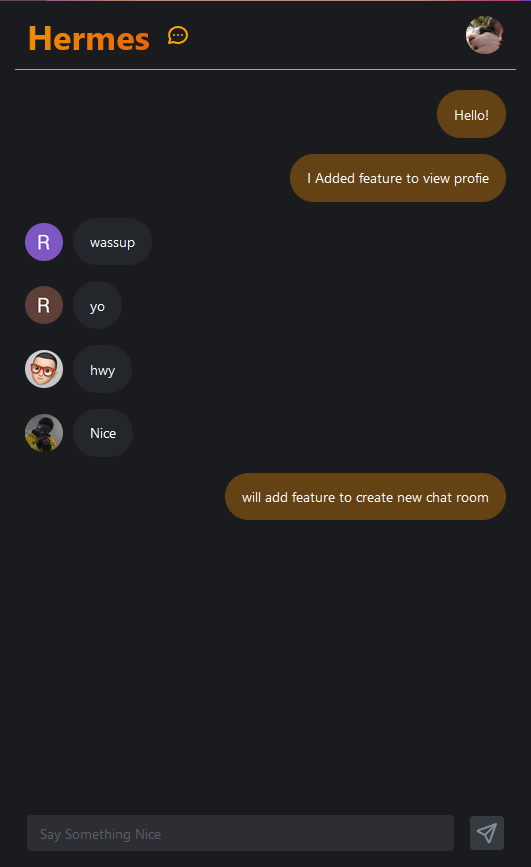
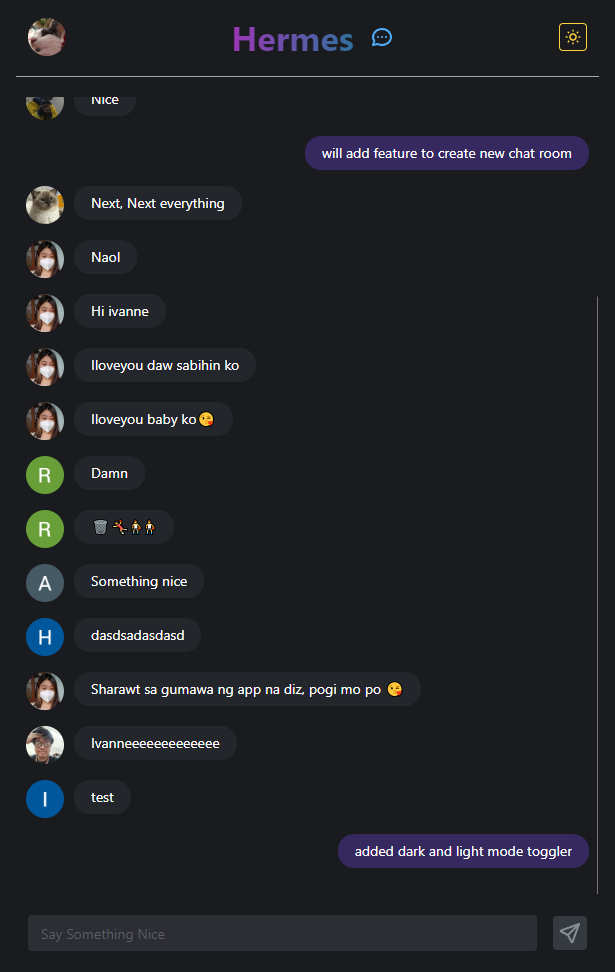
z

diff --git a/src/components/ChatMessage.tsx b/src/components/ChatMessage.tsx
@@ -1,10 +1,29 @@
-import { Alert, Avatar, Group } from "@mantine/core";
+import { Alert, Avatar, Collapse, Group, Stack, Text } from "@mantine/core";
+import dayjs from "dayjs";
 import { auth } from "../lib/firebase";
+import calendar from "dayjs/plugin/calendar";
+import { useEffect, useState } from "react";
 
 const ChatMessage = (props: any) => {
-  const { text, uid, photoURL } = props.message;
+  const { text, uid, photoURL, createdAt } = props.message;
   const message = uid === auth.currentUser?.uid ? "right" : "left";
   let color;
+  const [msgDate, setMsgDate] = useState("");
+  dayjs.extend(calendar);
+
+  useEffect(() => {
+    if (createdAt != null) {
+      conditions();
+    }
+  }, []);
+  function conditions() {
+    if (dayjs().diff(dayjs.unix(createdAt.seconds), "h") > 24) {
+      setMsgDate(dayjs.unix(createdAt.seconds).format("MMMM D, YYYY h:mm A"));
+    } else {
+      setMsgDate(dayjs.unix(createdAt.seconds).calendar());
+    }
+  }
+
   if (uid == "4d43TqC5jRMhqOM7hcitTmx4mde2") {
     color = "violet";
   } else {
@@ -15,6 +34,7 @@ const ChatMessage = (props: any) => {
       color = "gray";
     }
   }
+  const [opened, setOpen] = useState(false);
   return (
     <>
       <Group position={message} spacing="xs" align="flex-start" noWrap>
@@ -25,9 +45,25 @@ const ChatMessage = (props: any) => {
           radius="xl"
           hidden={message == "right" ? true : false}
         />
-        <Alert color={color} radius="lg" py={5} sx={{ maxWidth: "85%" }}>
-          {text}
-        </Alert>
+        <Stack p={0} spacing={2} sx={{ maxWidth: "85%" }}>
+          <Group position={message}>
+            <Alert
+              color={color}
+              radius="lg"
+              py="xs"
+              onClick={() => setOpen((o) => !o)}
+            >
+              {text}
+            </Alert>
+          </Group>
+          <Collapse in={opened} px="xs">
+            {
+              <Text size="xs" align={message} color="dimmed">
+                {msgDate}
+              </Text>
+            }
+          </Collapse>
+        </Stack>
       </Group>
     </>
   );

diff --git a/src/components/ChatBox.tsx b/src/components/ChatBox.tsx
@@ -3,8 +3,9 @@ import { getHotkeyHandler } from "@mantine/hooks";
 import { serverTimestamp } from "firebase/firestore";
 import { useState } from "react";
 import { useCollectionData } from "react-firebase-hooks/firestore";
-import { Send } from "tabler-icons-react";
+import { MoodHappy, Send } from "tabler-icons-react";
 import { auth, firestore } from "../lib/firebase";
+
 interface prop {
   fn: () => void;
 }
@@ -34,6 +35,11 @@ const ChatBox = ({ fn }: prop) => {
           onChange={(event) => setValue(event.currentTarget.value)}
           sx={{ flexGrow: 1 }}
           placeholder="Say Something Nice "
+          rightSection={
+            <ActionIcon>
+              <MoodHappy />
+            </ActionIcon>
+          }
           onKeyDown={
             !/\S/.test(value)
               ? undefined

diff --git a/src/components/ChatRoom.tsx b/src/components/ChatRoom.tsx
@@ -5,6 +5,7 @@ import { useCollectionData } from "react-firebase-hooks/firestore";
 import { auth, firestore } from "../lib/firebase";
 import ChatBox from "./ChatBox";
 import ChatMessage from "./ChatMessage";
+
 import Loading from "./Loading";
 
 const ChatRoom = () => {
@@ -26,6 +27,7 @@ const ChatRoom = () => {
       goBot();
     }, 100);
   });
+  
 
   const setUser = async () => {
     //@ts-expect-error
@@ -58,7 +60,7 @@ const ChatRoom = () => {
       ) : (
         <>
           <Stack sx={{ height: "84vh" }} pt="xs">
-            <ScrollArea p="xs" scrollbarSize={3}>
+            <ScrollArea p="xs" scrollbarSize={0.2}>
               <Stack>
                 {messages &&
                   messages.map((msg, id) => {

diff --git a/src/components/NavBar.tsx b/src/components/NavBar.tsx
@@ -1,9 +1,10 @@
 import {
-  Avatar, Group,
+  Avatar,
+  Group,
   Paper,
   Text,
   Title,
-  UnstyledButton
+  UnstyledButton,
 } from "@mantine/core";
 import { MessageCircle } from "tabler-icons-react";
 import { auth } from "../lib/firebase";
@@ -38,7 +39,7 @@ const NavBar = () => {
               <UnstyledButton<"a"> component="a" href="/">
                 <Title>Hermes</Title>
               </UnstyledButton>
-              <MessageCircle color="#4dabf7" />
+              <MessageCircle color="#4dabf7" size={30} />
             </Group>
           </Text>
           <DarkMode />

diff --git a/src/components/UserProfile.tsx b/src/components/UserProfile.tsx
@@ -24,6 +24,7 @@ const UserProfile = () => {
   let datas: any[] = [];
   const [mes, setMes] = useState<any[]>([]);
   let mess: any[] = [];
+  
   const messagesRef = firestore.collection("messages");
   const query = messagesRef.orderBy("createdAt");
   const [loading, setLoading] = useState(true);

diff --git a/src/App.tsx b/src/App.tsx
@@ -48,6 +48,7 @@ function App() {
           withNormalizeCSS
         >
           <Container
+            p={0}
             sx={{
               minHeight: "100vh",
               display: "flex",
